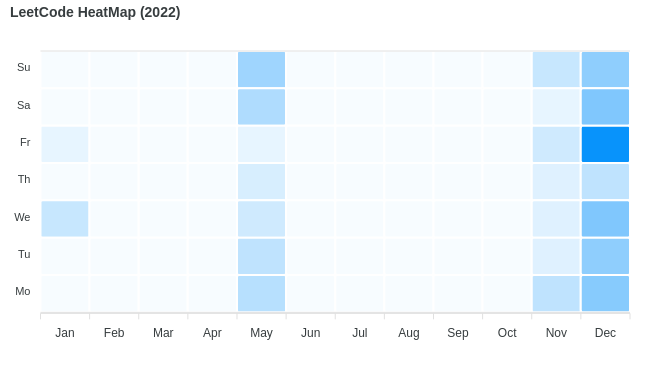
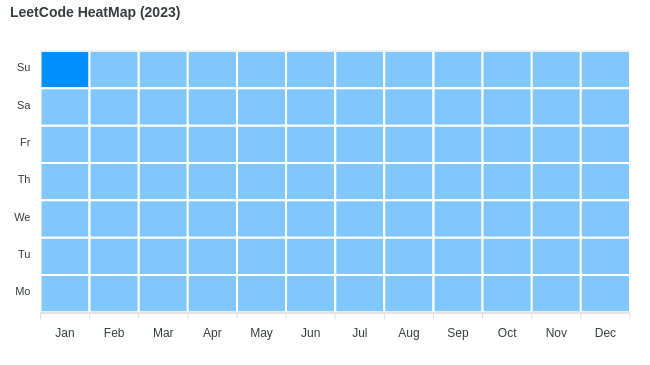
fix: filter for 2023

diff --git a/index.js b/index.js
@@ -11,7 +11,12 @@ commitsPromise.then((commits) => {
 
   const questions = commits
     .filter((item) => item.message.match("Time"))
-    .filter((item) => new Date(item.date) >= new Date().getFullYear())
+    .filter((item) => new Date(item.date) >= new Date("2023-01-01T00:00:00.000Z"))
+    .map((item) => item.date.split(" ").slice(0, 4).join("/"));
+
+  //console.log(JSON.stringify(questions, null, 2));
+  const questionsTotal = commits
+    .filter((item) => item.message.match("Time"))
     .map((item) => item.date.split(" ").slice(0, 4).join("/"));
 
   const uniq = commits
@@ -20,7 +25,7 @@ commitsPromise.then((commits) => {
     .map((item) => item.filesAdded[0].path.split('/')[1]);
 
   console.log("build headmap...");
-  console.log(chalk.bold(`${questions.length} questions solved in total`));
+  console.log(chalk.bold(`${questionsTotal.length} questions solved in total`));
   console.log(chalk.bold(`${uniq.length} uniq questions solved in total\n`));
 
   const months = [
@@ -101,7 +106,7 @@ commitsPromise.then((commits) => {
     }
     const updateFile = data.replace(
       /^.*Questions solved.*$/gm,
-      `> Questions solved ${questions.length} uniq: ${uniq.length}`
+      `> Questions solved ${questionsTotal.length} uniq: ${uniq.length}`
     );
 
     fs.writeFile("./README.md", updateFile, (err) => {

diff --git a/README.md b/README.md
@@ -3,7 +3,7 @@
 
 Collection of LeetCode questions to ace the coding interview! - Created using [LeetHub](https://github.com/QasimWani/LeetHub)
 
-> Questions solved 190 uniq: 77
+> Questions solved 191 uniq: 77
 
 ## Contribution 
 
